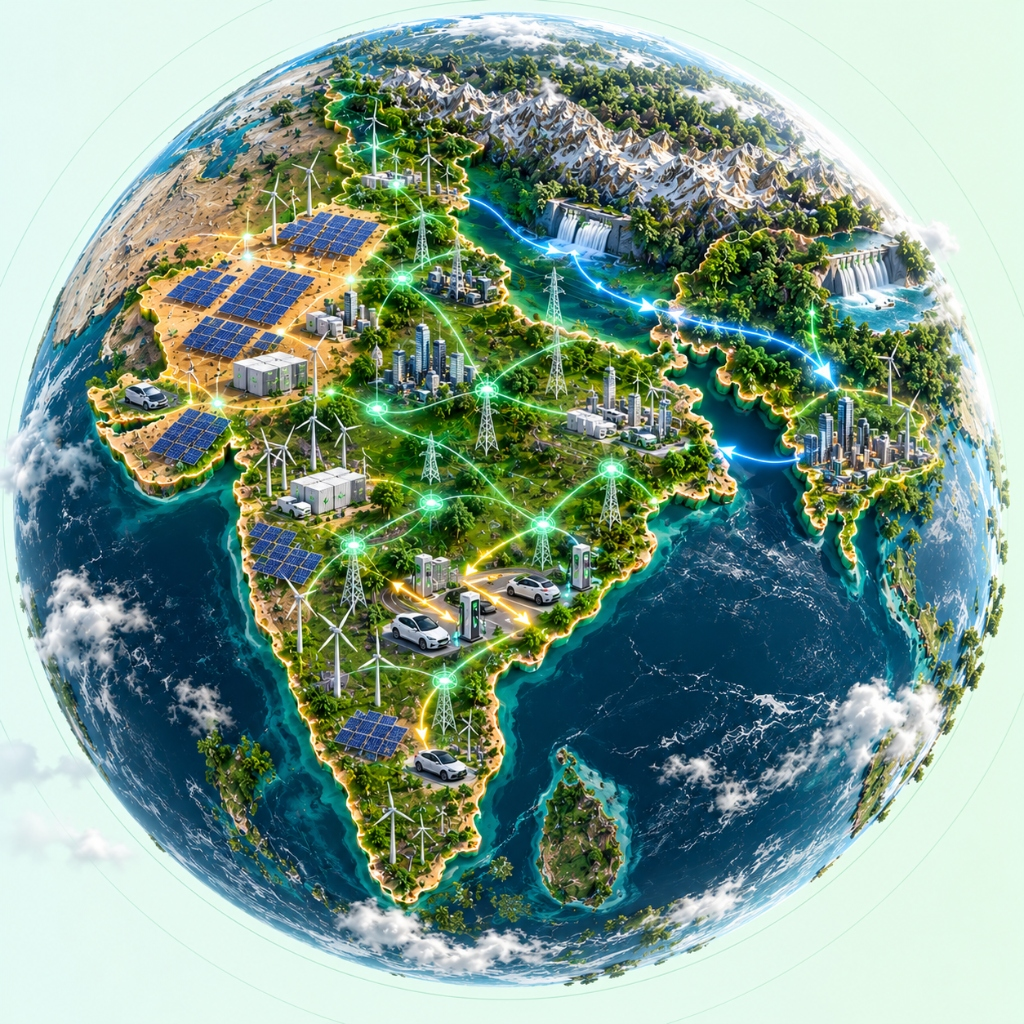
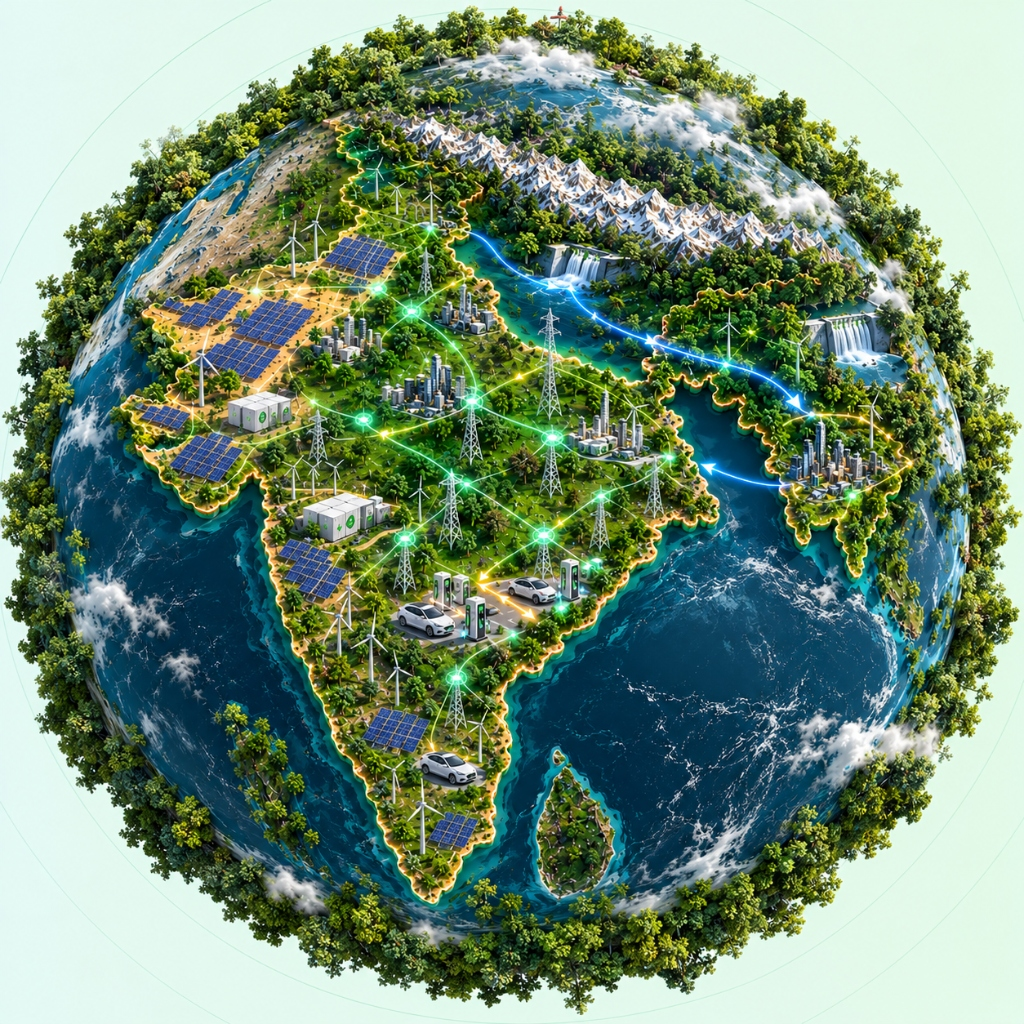
design: replace earth image and fix position for full visibility

diff --git a/src/components/HeroSlider.tsx b/src/components/HeroSlider.tsx
@@ -30,17 +30,17 @@ export default function HeroSlider() {
         </div>
 
         {/* Right Side: Static Rotating Earth */}
-        <div className="w-full md:w-[45%] absolute md:relative right-[-10%] md:right-[2%] top-1/4 md:top-auto flex items-center justify-center pointer-events-none opacity-40 md:opacity-100">
-          <div className="relative w-[400px] md:w-[600px] h-[400px] md:h-[600px]">
+        <div className="w-full md:w-[45%] absolute md:relative right-0 md:right-0 top-1/4 md:top-auto flex items-center justify-center pointer-events-none opacity-30 md:opacity-100">
+          <div className="relative w-[350px] md:w-[480px] h-[350px] md:h-[480px]">
             {/* Earth image cut in a circle and rotating slowly */}
             <div 
-              className="w-full h-full rounded-full overflow-hidden shadow-2xl"
-              style={{ animation: 'spin 60s linear infinite' }}
+              className="w-full h-full rounded-full overflow-hidden"
+              style={{ animation: 'spin 60s linear infinite', boxShadow: '0 0 60px rgba(0,166,81,0.15)' }}
             >
               <img 
                 src="/india-earth.jpg" 
                 alt="GridWatch Earth Ecosystem" 
-                className="w-full h-full object-cover scale-110"
+                className="w-full h-full object-cover"
               />
             </div>
           </div>
